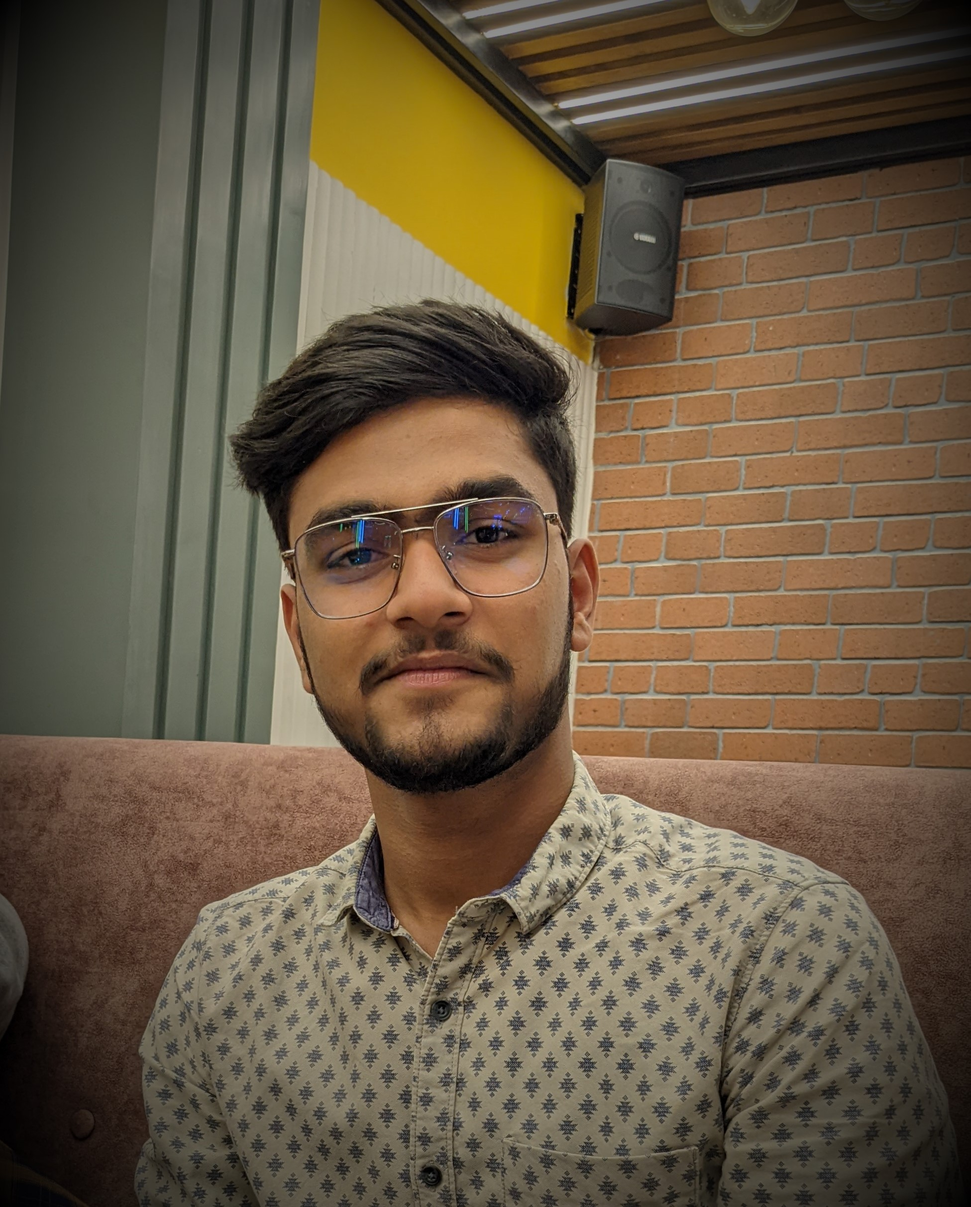
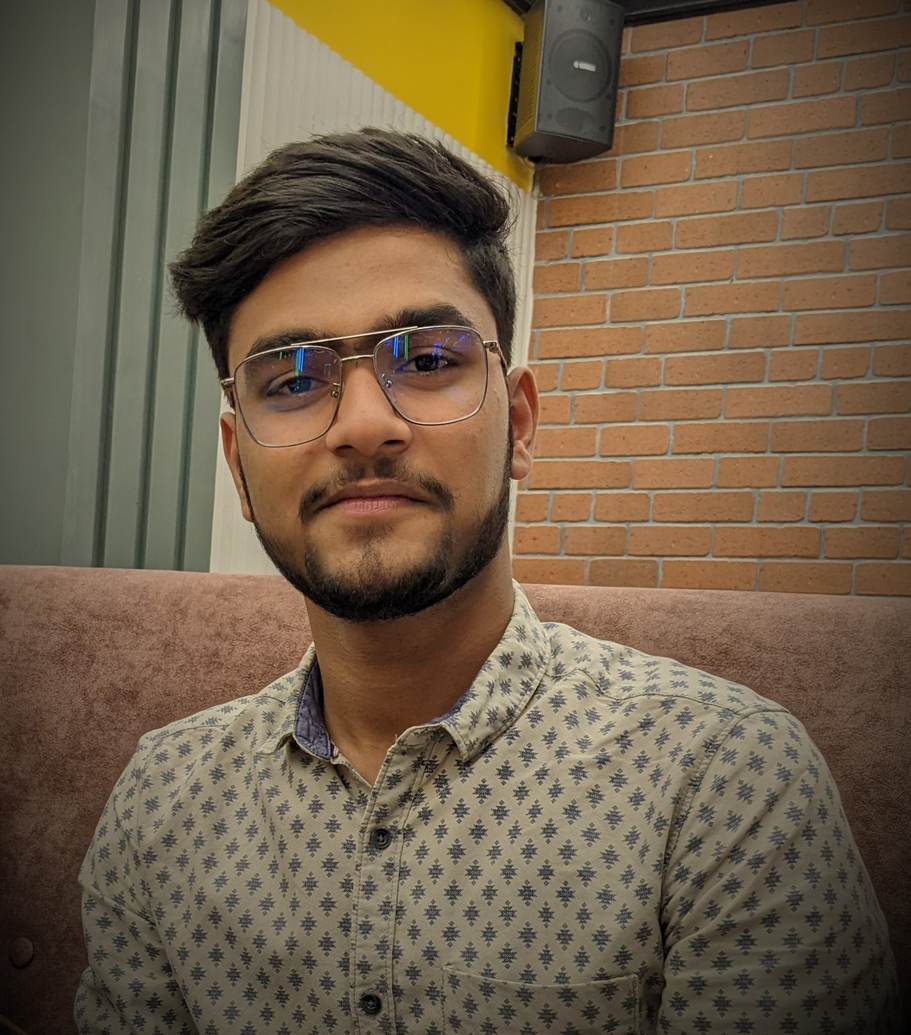
added about section

diff --git a/src/components/About.jsx b/src/components/About.jsx
@@ -1,0 +1,52 @@
+import React from 'react'
+
+const aboutItems = [
+    {
+      label: 'Project done',
+      number: 15
+    },
+    // {
+    //   label: 'Years of experience',
+    //   number: 10
+    // }
+  ];
+
+
+const About = ()=> {
+  return (
+    <section
+    id="about"
+    className="section"
+    >
+        <div className="container">
+            <div className="bg-zinc-800/50 p-7 rounded-2xl">
+                <p className="text-zinc-300 mb-4 md:mb-8 md:text-xl md:max-w-[60ch]">
+                Welcome! I am Anuj Agarwal, a results-driven software developer with a good foundation in Data Structures and Algorithms (DSA) and extensive experience in Frontend Development, particularly with React js. I am eager to apply my analytical problem-solving skills and expertise in building optimized, user-centric web applications to contribute to a forward-thinking development team.
+                </p>
+                <div className="flex flex-wrap items-center gap-4 md:gap-7">
+                    {
+                        aboutItems.map(({label,number}, key)=>(
+                            <div key={key}>
+                                <div className="flex items-center md:mb-2">
+                                    <span className="text-2xl font-semibold md:text-4xl">{number}</span>
+                                    <span className="text-sky-400 font-semibold md:text-3xl">+</span>
+                                </div>
+                                <p className="text-sm text-zinc-400">{label}</p>
+                            </div>
+                        ))
+                    }
+                    <img 
+                        src="pic.jpg" 
+                        alt="Logo"
+                        width={30}
+                        height={30}
+                        className="ml-auto md:w-[40px] md:h-[40px]" 
+                    />
+                </div>
+            </div>
+        </div>
+    </section>
+  )
+}
+
+export default About

diff --git a/src/components/Hero.jsx b/src/components/Hero.jsx
@@ -8,13 +8,13 @@ const Hero = ()=> {
         <div className='container items-center lg:grid lg:grid-cols-2 lg:gap-10'>
             <div>
                 <div className='felx items-center gap-3'>
-                    <figure className='img-box w-9 h-9 rounded-lg'>
+                    <figure className='img-box w-9 h-9 rounded-full'>
                         <img
                          src="/pic.jpg"
                          width={40}
                          height={40}
                          alt="Anuj Agarwal"
-                         className='img-cover' 
+                         className='img-cover rounded-2xl' 
                          />
                     </figure>
                     <div className='flex items-center gap-1.5 text-zinc-400 text-sm tracking-wide'>
@@ -37,7 +37,7 @@ const Hero = ()=> {
 
                     <ButtonOutline
                     href="#about"
-                    label="Scrool down"
+                    label="Scroll Down"
                     icon="arrow_downward"
                     />
                 </div>
@@ -50,7 +50,7 @@ const Hero = ()=> {
                     width={656}
                     height={800}
                     alt="Anuj Agarwal" 
-                    className='w-full'
+                    className='w-9/12 rounded-3xl'
                     />
                 </figure>
             </div>

diff --git a/src/index.css b/src/index.css
@@ -37,6 +37,11 @@ body{
   @apply w-full h-full object-cover
 }
 
+.section{
+  @apply pt-20 lg:pt-32
+}
+
+
 .menu-btn{
   @apply w-10 h-10 grid place-items-center bg-zinc-50/10 rounded-xl ring-inset ring-1 ring-zinc-50/[0.02] backdrop-blur-2xl hover:bg-zinc-50/15  active:scale-95
   /* transition left hai abhi */
@@ -44,7 +49,7 @@ body{
 
 .navbar {
   @apply absolute top-full mt-2 right-0 min-w-40 p-2  bg-zinc-50/10 rounded-2xl ring-inset ring-1 ring-zinc-50/5
-  scale-90 isolate blur-sm opacity-0  invisible transition-opacity md:static md:flex md:items-center md:mt-0 md:opacity-100 md:blur-0 md:visible md:scale-100 backdrop-blur-2xl
+  scale-90 isolate blur-sm opacity-0  invisible transition-opacity md:static md:flex md:items-center md:mt-3 md:opacity-100 md:blur-0 md:visible md:scale-100 backdrop-blur-2xl
 }
 
 

diff --git a/src/App.jsx b/src/App.jsx
@@ -2,12 +2,14 @@ import React from 'react'
 // import Navbar from './components/Navbar';
 import Header from './components/Header';
 import Hero from './components/Hero';
+import About from './components/About';
 const App =()=>{
   return (
     <>
     <Header/>
     <main>
       <Hero/>
+      <About/>
     </main>
     </>
   )
